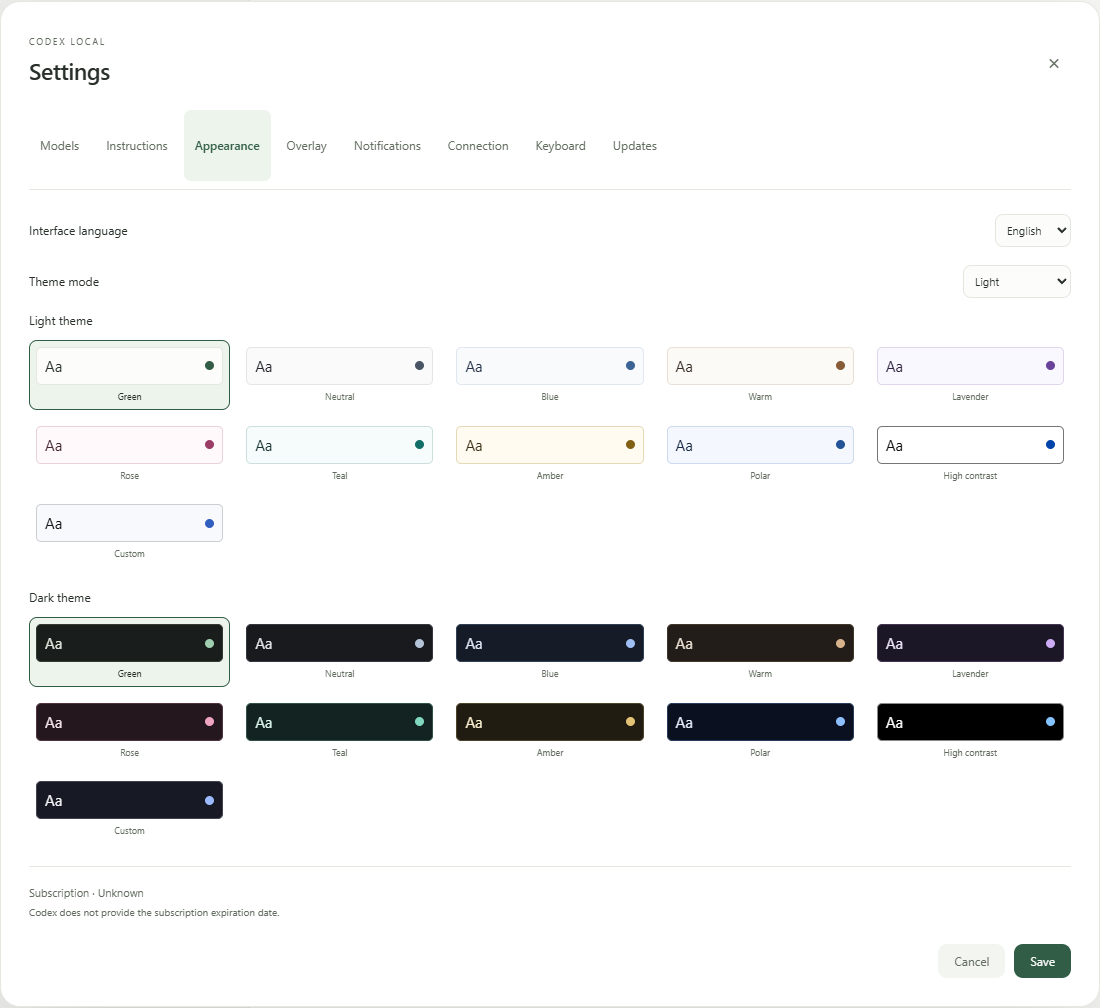
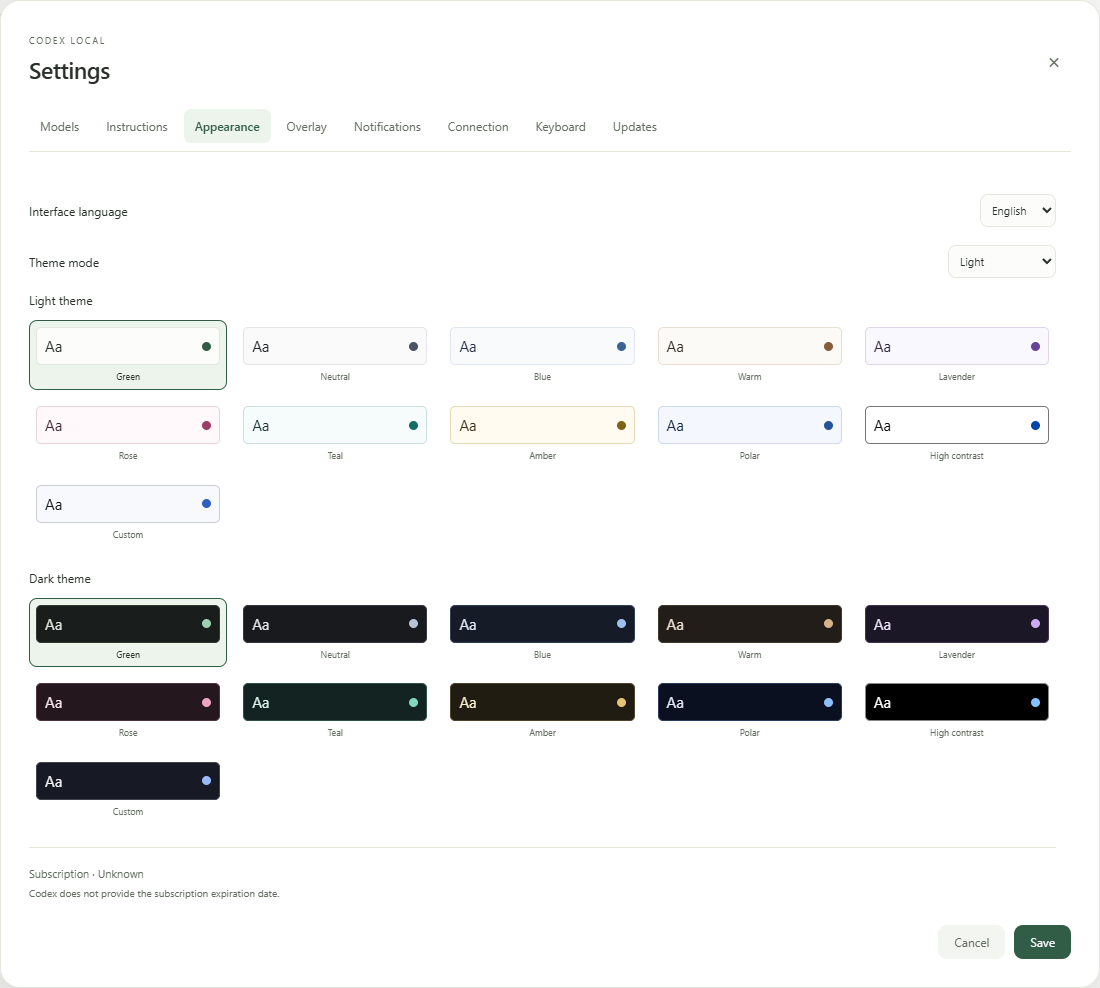
Document 0.8.46 fixed settings controls [skip ci]

diff --git a/README.md b/README.md
@@ -14,7 +14,7 @@ This repository contains **installers and documentation**. Application source co
 
 ![Codex Local desktop workspace with projects, a launch checklist and usage limits](assets/screenshots/en/workspace-light.png)
 
-<p align="center"><sub>Codex Local 0.8.45 · Actual interface with demo projects and conversations.</sub></p>
+<p align="center"><sub>Codex Local 0.8.46 · Actual interface with demo projects and conversations.</sub></p>
 
 Project and chat names in the sidebar use 14 px text on desktop and phones. Counts and headings use the same scale. On desktop, drag the sidebar’s right edge to adjust its width.
 
@@ -110,6 +110,8 @@ Read code with syntax highlighting and line numbers, search within a file, and s
 ### Make the workspace yours
 
 Pick separate light and dark palettes, then choose the events, delivery channels and message previews you want.
+
+The settings header, tabs and bottom buttons stay in place while the section's content scrolls. Save and Cancel remain accessible on phones and in short windows too.
 
 | Appearance and language | Notification preferences |
 | --- | --- |
